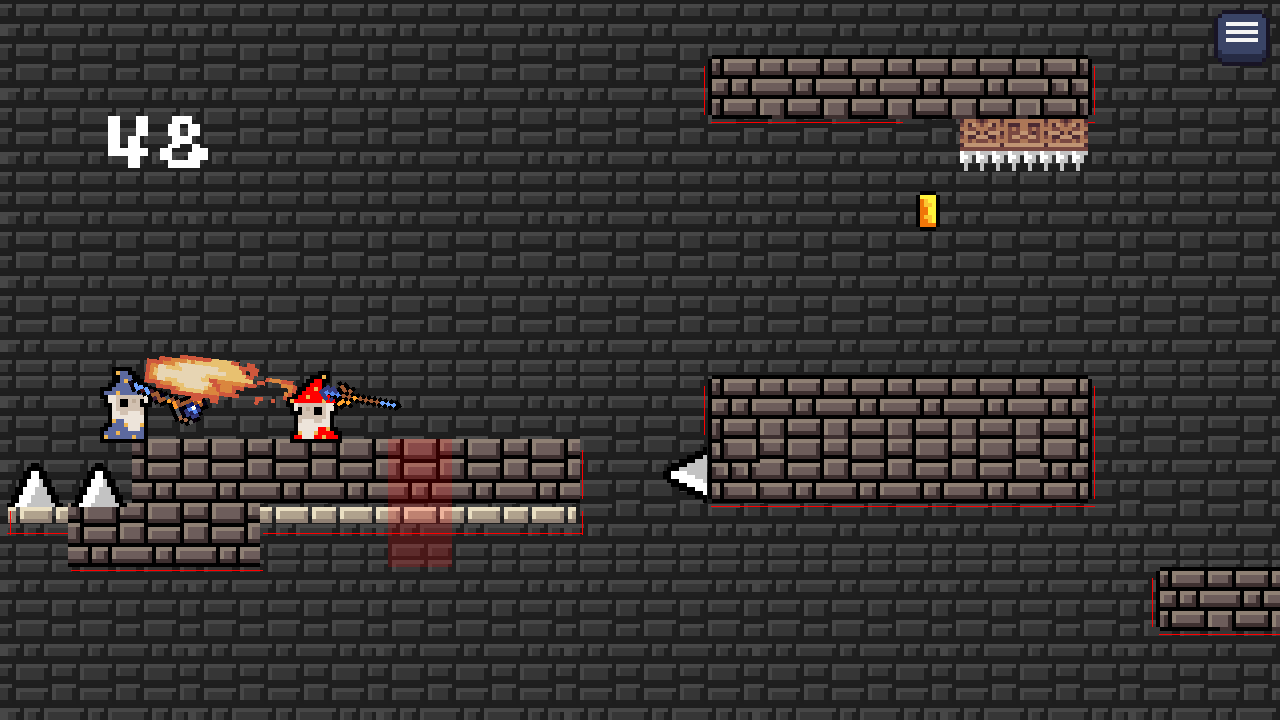
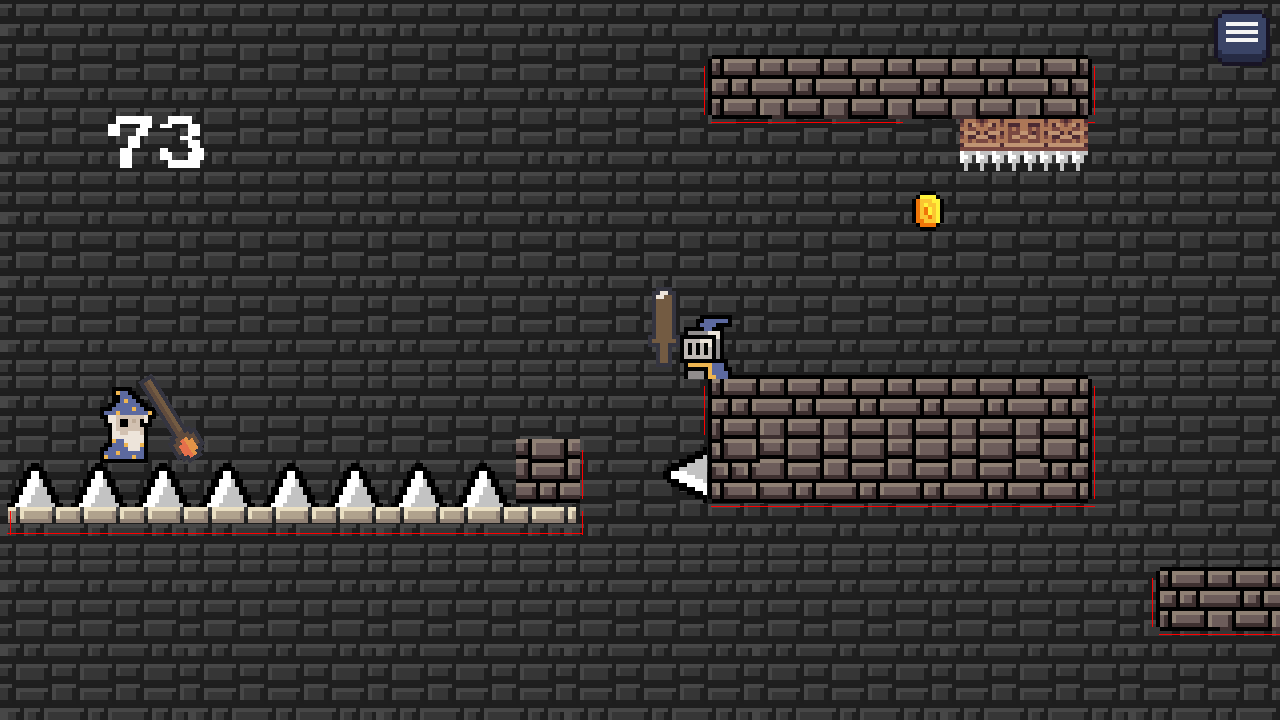
Added basic working EnemySwordsman class

diff --git a/assets/scripts/enemy.py b/assets/scripts/enemy.py
@@ -1,5 +1,5 @@
 from assets.scripts.core_funcs import *
-class Enemy:
+class EnemyWizard:
     def __init__(self, position, renderer):
         self.pos = position
         self.staff_pos = [position[0], position[1]]
@@ -37,7 +37,7 @@ class Enemy:
         self.dir = 0
         self.shots = []
         self.particle_surf = None
-        self.staffs = ["staff.png", "staff_2.png", "staff_3.png"]
+        staffs = SpriteSheet(scale_image(pygame.image.load("assets/Spritesheets/staffs.png").convert()), [5, 1], [255, 255, 255]).sheet[0]
         #self.walk_particles = Particles(win, )
         if not web:
             sheets = [pygame.image.load("assets\Spritesheets\\right_sheet.png").convert(), pygame.image.load("assets\Spritesheets\\left_sheet.png").convert()]
@@ -53,7 +53,7 @@ class Enemy:
             spritesheet_ = SpriteSheet(sheets[1], [4, 11])
             for sheet in spritesheet_.sheet:
                 self.spritesheet.sheet.append(sheet)
-            self.staff = scale_image(pygame.image.load("assets\Spritesheets\\"+self.staffs[randint(0, len(self.staffs)-1)]).convert())
+            self.staff = staffs[randint(0, len(staffs)-1)].copy()
         else:
             sheets = [pygame.image.load("assets/Spritesheets/right_sheet.png").convert(), pygame.image.load("assets/Spritesheets/left_sheet.png").convert()]
             [s.set_colorkey([255, 255, 255]) for s in sheets]
@@ -68,7 +68,7 @@ class Enemy:
             spritesheet_ = SpriteSheet(sheets[1], [4, 11])
             for sheet in spritesheet_.sheet:
                 self.spritesheet.sheet.append(sheet)
-            self.staff = scale_image(pygame.image.load("assets/Spritesheets/"+self.staffs[randint(0, len(self.staffs)-1)]).convert())
+            self.staff = staffs[randint(0, len(staffs)-1)].copy()
         self.staff.set_colorkey([255, 255, 255])
         self.orig_staff = self.staff.copy()
         self.just_shot = False
@@ -175,13 +175,13 @@ class Enemy:
                         self.pos[1] = double_list[1][1]-self.spritesheet.get(self.frame).get_height()+24
                     self.jumping = False
         self.staff_pos = [self.pos[0]+(self.spritesheet.get(self.frame).get_width()/1.2), self.pos[1]+(self.spritesheet.get(self.frame).get_height()/1.9)]
-        ang = 315-angle_between([self.staff_pos, renderer.queue[0].staff_pos])
+        ang = 270-angle_between([self.staff_pos, renderer.queue[0].staff_pos])
         if self.vel[0] == 0 and self.rect.colliderect(renderer.camera.rect) and not self.just_shot and self.standing:
             ang += randint(-10, 10)
         self.staff = pygame.transform.rotate(self.orig_staff, ang)
         if self.vel[0] == 0 and self.rect.colliderect(renderer.camera.rect) and not self.just_shot and self.standing:
             self.shots.append(len(renderer.bullet_manager.bullets))
-            renderer.bullet_manager.add_bullet(self.staff_pos, 315-ang)
+            renderer.bullet_manager.add_bullet(self.staff_pos, 270-ang)
             self.just_shot = True
         if self.just_shot:
             self.shoot_delay += 1
@@ -214,3 +214,215 @@ class Enemy:
             #pygame.draw.rect(win, [255, 0, 0], self.rect)
             win.blit(self.spritesheet.get(self.frame), self.pos)
             win.blit(self.staff, self.staff_pos)
+class Sword:
+    def __init__(self, owner, pos, level=1):
+        self.owner = owner
+        self.pos = pos
+        self.sprite = scale_image(pygame.image.load("assets/Spritesheets/sword_"+str(level)+".png").convert())
+        self.sprite.set_colorkey([255, 255, 255])
+        self.spritesheet = SpriteSheet(scale_image(pygame.image.load("assets/Spritesheets/sword_anim_"+str(level)+".png").convert()), [4, 2], [255, 255, 255])
+        self.attacking = False
+        self.attack = None
+        self.frame = [0, 0]
+        self.delay = 0
+        self.dir = 0
+    def update(self, renderer):
+        if not self.attacking:
+            win.blit(pygame.transform.flip(self.sprite, self.dir, False), self.pos)
+        else:
+            pass
+class EnemySwordsman:
+    def __init__(self, position, renderer):
+        self.pos = position
+        self.staff_pos = [position[0], position[1]]
+        self.frame = [0, 0]
+        tex_list = ["enemy_1.png", "enemy_2.png", "enemy_3.png"]
+        self.type = randint(0, len(tex_list)-1)
+        self.tex = tex_list[self.type]
+        self.tile = 115
+        self.is_alive = True
+        self.levels_unlocked = [0]
+        self.vel = [0, 0]
+        self.gravity = 0.24
+        self.just_spawned = True
+        self.delay = 0
+        self.deaths = 0
+        self.standing = False
+        self.speed = 4
+        self.cycles = 0
+        self.just_col = []
+        self.collided = False
+        self.cur_row = [3, 2]
+        self.shapeshifting = False
+        self.jumping = False
+        self.coins = 0
+        self.moving = True
+        self.chasing = False
+        self.sounds = []
+        self.sounds_dict = {"land":0, "jump":1}
+        self.just_jumped = False
+        self.fell = False
+        self.harmful = ["Crusher"]
+        self.spinning = False
+        self.dir = 0
+        self.particle_surf = None
+        #self.walk_particles = Particles(win, )
+        if not web:
+            sheets = [pygame.image.load("assets\Spritesheets\\"+self.tex).convert()]
+            [s.set_colorkey([255, 255, 255]) for s in sheets]
+            [swap_color(s, [53, 53, 64], [1, 1, 1])  for s in sheets]
+            sheets = [scale_image(s) for s in sheets]
+            pygame.mixer.music.load("assets\Audio\land.ogg")
+            self.sounds.append(pygame.mixer.Sound("assets\Audio\land.ogg"))
+            pygame.mixer.music.load("assets\Audio\jump.ogg")
+            self.sounds.append(pygame.mixer.Sound("assets\Audio\jump.ogg"))
+            self.spritesheet = SpriteSheet(sheets[0], [4, 22])
+        else:
+            sheets = [pygame.image.load("assets/Spritesheets/"+self.tex).convert()]
+            [s.set_colorkey([255, 255, 255]) for s in sheets]
+            [swap_color(s, [53, 53, 64], [1, 1, 1])  for s in sheets]
+            sheets = [scale_image(s) for s in sheets]
+            pygame.mixer.music.load("assets/Audio/land.ogg")
+            self.sounds.append(pygame.mixer.Sound("assets/Audio/land.ogg"))
+            pygame.mixer.music.load("assets/Audio/jump.ogg")
+            self.sounds.append(pygame.mixer.Sound("assets/Audio/jump.ogg"))
+            self.spritesheet = SpriteSheet(sheets[0], [4, 22])
+        self.renderer = renderer
+        self.mask = pygame.mask.from_surface(self.spritesheet.get(self.frame))
+        self.weapon = Sword(self, self.pos)
+    def update_animation(self, row, delay_wait, dt):
+        if dt != 0:
+            if round(delay_wait/(dt)) != 0:
+                self.frame[1] = row
+                if self.just_spawned:
+                    self.frame[1] == 0
+                    self.delay += 1
+                    if self.delay % round(delay_wait/(dt)) == 0:
+                        self.frame[0] += 1
+                    
+                    if self.frame[0] > 3:
+                        self.frame[1] = 0
+                        self.frame[0] = 0
+                        self.just_spawned = False
+                        if not self.renderer.coin_channel.get_busy():
+                            self.renderer.coin_channel.play(self.sounds[self.sounds_dict["land"]])
+                else:
+                    self.delay += 1
+                    if self.delay % round(delay_wait/(dt)) == 0:
+                        self.frame[0] += 1
+                    if self.frame[0] > 3:
+                        self.frame[0] = 0
+    def update_physics(self, renderer, dt):
+
+        if self.pos[1] > (renderer.player_death_limit[renderer.level]+renderer.camera.cam_change[1]):
+            self.is_alive = False
+            #reset(self, renderer)
+            return
+        global def_frame
+        self.collided = False
+        if not self.standing:
+            self.cycles += 1
+        self.mask = pygame.mask.from_surface(self.spritesheet.get(self.frame))
+        if self.frame[1] == 1:
+            self.rect = pygame.Rect(self.pos[0]+(22*2)-8-3, self.pos[1]-20+(17*3), (12*4)+15, (16*4)+17)
+            self.top_rect = pygame.Rect(self.pos[0]+(22*2)-8-3, self.pos[1]-20+(17*3), (12*4)+15, 1)
+        else:
+            self.rect = pygame.Rect(self.pos[0]+(22*2)-8-5, self.pos[1]-20+(17*3), (12*4)+15, (16*4)+17)
+            self.top_rect = pygame.Rect(self.pos[0]+(22*2)-8-5, self.pos[1]-20+(17*3), (12*4)+15, 1)
+        for double_list in renderer.standing_masks:
+                if (self.mask.overlap(double_list[0], (double_list[1][0]-self.pos[0], double_list[1][1]-self.pos[1])) == None):
+                    pass
+                else:
+                    self.standing = True
+                    if self.jumping:
+                        if not self.renderer.coin_channel.get_busy():
+                            self.renderer.coin_channel.play(self.sounds[self.sounds_dict["land"]])
+                    if not double_list[2] in renderer.queue:
+                        self.pos[1] = double_list[1][1]-self.spritesheet.get(self.frame).get_height()+8
+                    self.jumping = False
+
+        for rect in renderer.side_rects:
+            if self.rect.colliderect(rect[0]):
+                if not [rect[0].x, rect[0].y] in self.just_col:
+                    self.jumping = False
+                    self.just_col.append([rect[0].x, rect[0].y])
+                    if rect[1] != 2:
+                        self.vel[0] = (0-(self.vel[0]*(dt)))/2
+                    else:
+                        self.vel[1] = (0-(((self.vel[1])*dt)))/2
+                self.standing = False
+                self.collided = True
+                break
+        
+        if not self.collided:
+            self.just_col = []
+
+        if self.standing:
+            #self.chasing = False
+            if self.rect.colliderect(renderer.camera.rect):
+                if sqrt((self.pos[0]-renderer.queue[0].pos[0])**2) > self.rect.w * 2:
+                    if self.pos[0] < renderer.queue[0].pos[0]:
+                        self.vel[0] = (self.speed*dt)
+                        self.dir = 1
+                        self.update_animation(1, 17.7/2, dt)
+                    if self.pos[0] > renderer.queue[0].pos[0]:
+                        self.vel[0] = 0-(self.speed*dt)
+                        self.dir = 0
+                        self.update_animation(12, 17.7/2, dt)
+                    self.chasing = True
+                    self.weapon.attacking = False
+                    self.weapon.frame = [0, 0]
+                else:
+                    self.vel[0] = 0
+                    self.weapon.attacking = True
+                    #self.chasing = False
+            self.vel[1] = 0
+        else:
+            self.vel[1] += (self.gravity*(dt))    
+        self.pos[0]+=self.vel[0]
+        self.pos[1]+=self.vel[1]
+        for double_list in renderer.standing_masks:
+                if (self.mask.overlap(double_list[0], (double_list[1][0]-self.pos[0], double_list[1][1]-self.pos[1])) == None):
+                    pass
+                else:
+                    if self.standing == False:
+                        if not self.renderer.coin_channel.get_busy():
+                            self.renderer.coin_channel.play(self.sounds[self.sounds_dict["land"]])
+                    self.standing = True
+                    
+                    if not double_list[2] in renderer.queue:
+                        self.pos[1] = double_list[1][1]-self.spritesheet.get(self.frame).get_height()+8
+                    self.jumping = False
+
+        if not self.is_alive:
+            renderer.queue.remove(self)
+            del self
+    def update(self, renderer):
+        if renderer.clock.get_fps() != 0:
+            if self.just_spawned:
+                    self.update_animation(7, 15/2, renderer.dt)
+            
+            self.standing = False
+            #if renderer.clock.get_fps() != 0:
+            self.update_physics(renderer, renderer.dt)
+            if self.standing and not self.chasing:
+                if self.dir == 1:
+                    self.update_animation(0, 15/2, renderer.dt)
+                else:
+                    self.update_animation(11, 15/2, renderer.dt)
+            if self.frame[1] == 1:
+                self.rect = pygame.Rect(self.pos[0]+(22*2)-8-3, self.pos[1]-20+(17*3), (12*4)+15, (16*4)+17)
+                self.top_rect = pygame.Rect(self.pos[0]+(22*2)-8-3, self.pos[1]-20+(17*3), (12*4)+15, 1)
+            else:
+                self.rect = pygame.Rect(self.pos[0]+(22*2)-8-5, self.pos[1]-20+(17*3), (12*4)+15, (16*4)+17)
+                self.top_rect = pygame.Rect(self.pos[0]+(22*2)-8-5, self.pos[1]-20+(17*3), (12*4)+15, 1)
+            #pygame.draw.rect(win, [255, 0, 0], self.rect)
+            win.blit(self.spritesheet.get(self.frame), self.pos)
+            if self.dir == 0:
+                self.weapon.pos = [self.pos[0]-40, self.pos[1]]
+            else:
+                self.weapon.pos = [self.pos[0]+40, self.pos[1]]
+            self.weapon.dir = self.dir*1
+            self.weapon.update()
+            #win.blit(self.staff, self.staff_pos)
+        

diff --git a/assets/scripts/player.py b/assets/scripts/player.py
@@ -33,6 +33,8 @@ class Player:
         self.dir = 0
         self.shots = []
         self.particle_surf = None
+        self.just_shot = False
+        self.staffs = SpriteSheet(scale_image(pygame.image.load("assets/Spritesheets/staffs.png").convert()), [5, 1], [255, 255, 255])
         #self.walk_particles = Particles(win, )
         if not web:
             sheets = [pygame.image.load("assets\Spritesheets\\right_sheet.png").convert(), pygame.image.load("assets\Spritesheets\\left_sheet.png").convert()]
@@ -49,7 +51,7 @@ class Player:
             spritesheet_ = SpriteSheet(sheets[1], [4, 11])
             for sheet in spritesheet_.sheet:
                 self.spritesheet.sheet.append(sheet)
-            self.staff = scale_image(pygame.image.load("assets\Spritesheets\\staff.png").convert())
+            self.staff = self.staffs.get([0, 0]).copy()
         else:
             sheets = [pygame.image.load("assets/Spritesheets/right_sheet.png").convert(), pygame.image.load("assets/Spritesheets/left_sheet.png").convert()]
             [s.set_colorkey([255, 255, 255]) for s in sheets]
@@ -65,7 +67,7 @@ class Player:
             spritesheet_ = SpriteSheet(sheets[1], [4, 11])
             for sheet in spritesheet_.sheet:
                 self.spritesheet.sheet.append(sheet)
-            self.staff = scale_image(pygame.image.load("assets/Spritesheets/staff.png").convert())
+            self.staff = self.staffs.get([0, 0]).copy()
         self.staff.set_colorkey([255, 255, 255])
         self.orig_staff = self.staff.copy()
         self.just_shot = False
@@ -292,11 +294,11 @@ class Player:
             self.top_rect = pygame.Rect(self.pos[0]+(22*2)-8-8, self.pos[1]-20+(17*3), (12*4)+15, 1)
         """
         self.staff_pos = [self.pos[0]+(self.spritesheet.get(self.frame).get_width()/1.2), self.pos[1]+(self.spritesheet.get(self.frame).get_height()/1.9)]
-        ang = 315-angle_between([self.staff_pos, pygame.mouse.get_pos()])
+        ang = 270-angle_between([self.staff_pos, pygame.mouse.get_pos()])
         self.staff = pygame.transform.rotate(self.orig_staff, ang)
         if pygame.mouse.get_pressed()[0] and not self.just_shot and not renderer.button.rect.collidepoint(pygame.mouse.get_pos()) and self.shapeshifting:
             self.shots.append(len(renderer.bullet_manager.bullets))
-            renderer.bullet_manager.add_bullet(self.staff_pos, 315-ang)
+            renderer.bullet_manager.add_bullet(self.staff_pos, 270-ang)
             self.just_shot = True
         if not pygame.mouse.get_pressed()[0]:
             self.just_shot = False

diff --git a/assets/scripts/level_renderer.py b/assets/scripts/level_renderer.py
@@ -398,7 +398,7 @@ class LevelRenderer:
                 elif tile == 140:
                     if self.coin_appending:
                         self.enemies.append(len(self.queue))
-                        self.queue.append(Enemy([self.x*self.tile_size[0], self.y*self.tile_size[1]], self))
+                        self.queue.append(EnemySwordsman([self.x*self.tile_size[0], self.y*self.tile_size[1]], self))
         self.first_cycle = False
         self.coin_appending = False
     def update(self):
